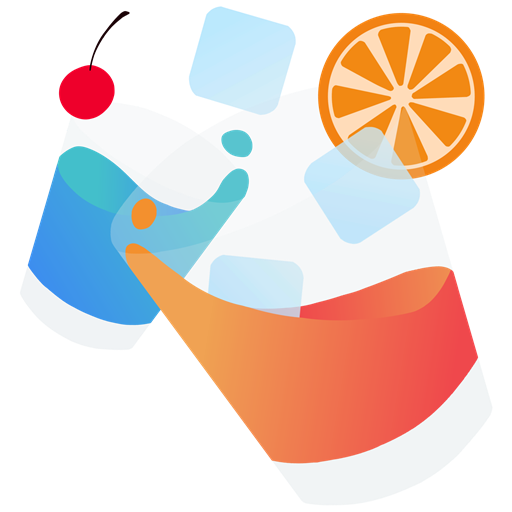
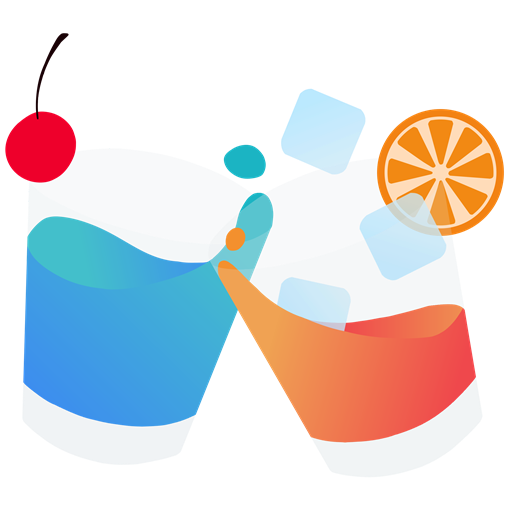
ui(loading): use original Logo_XL on the loading screen, revert size
- LoadingSeal back to the original Logo_XL (upright clinking glasses) — that is
  the intended loading logo, not the tilted launcher art.
- Revert #loadCenterImage width 350px -> 277px (original size was fine).
- Cache-bust bumped to ?v=3.

diff --git a/app/assets/css/launcher.css b/app/assets/css/launcher.css
@@ -3954,7 +3954,7 @@ input:checked + .toggleSwitchSlider:before {
 /* Loading logo — gently pulses (zoom in/out) instead of a rotating ring. */
 #loadCenterImage {
     position: absolute;
-    width: 350px;
+    width: 277px;
     height: auto;
     transform-origin: center;
     animation: loadPulse 1.8s ease-in-out infinite;
